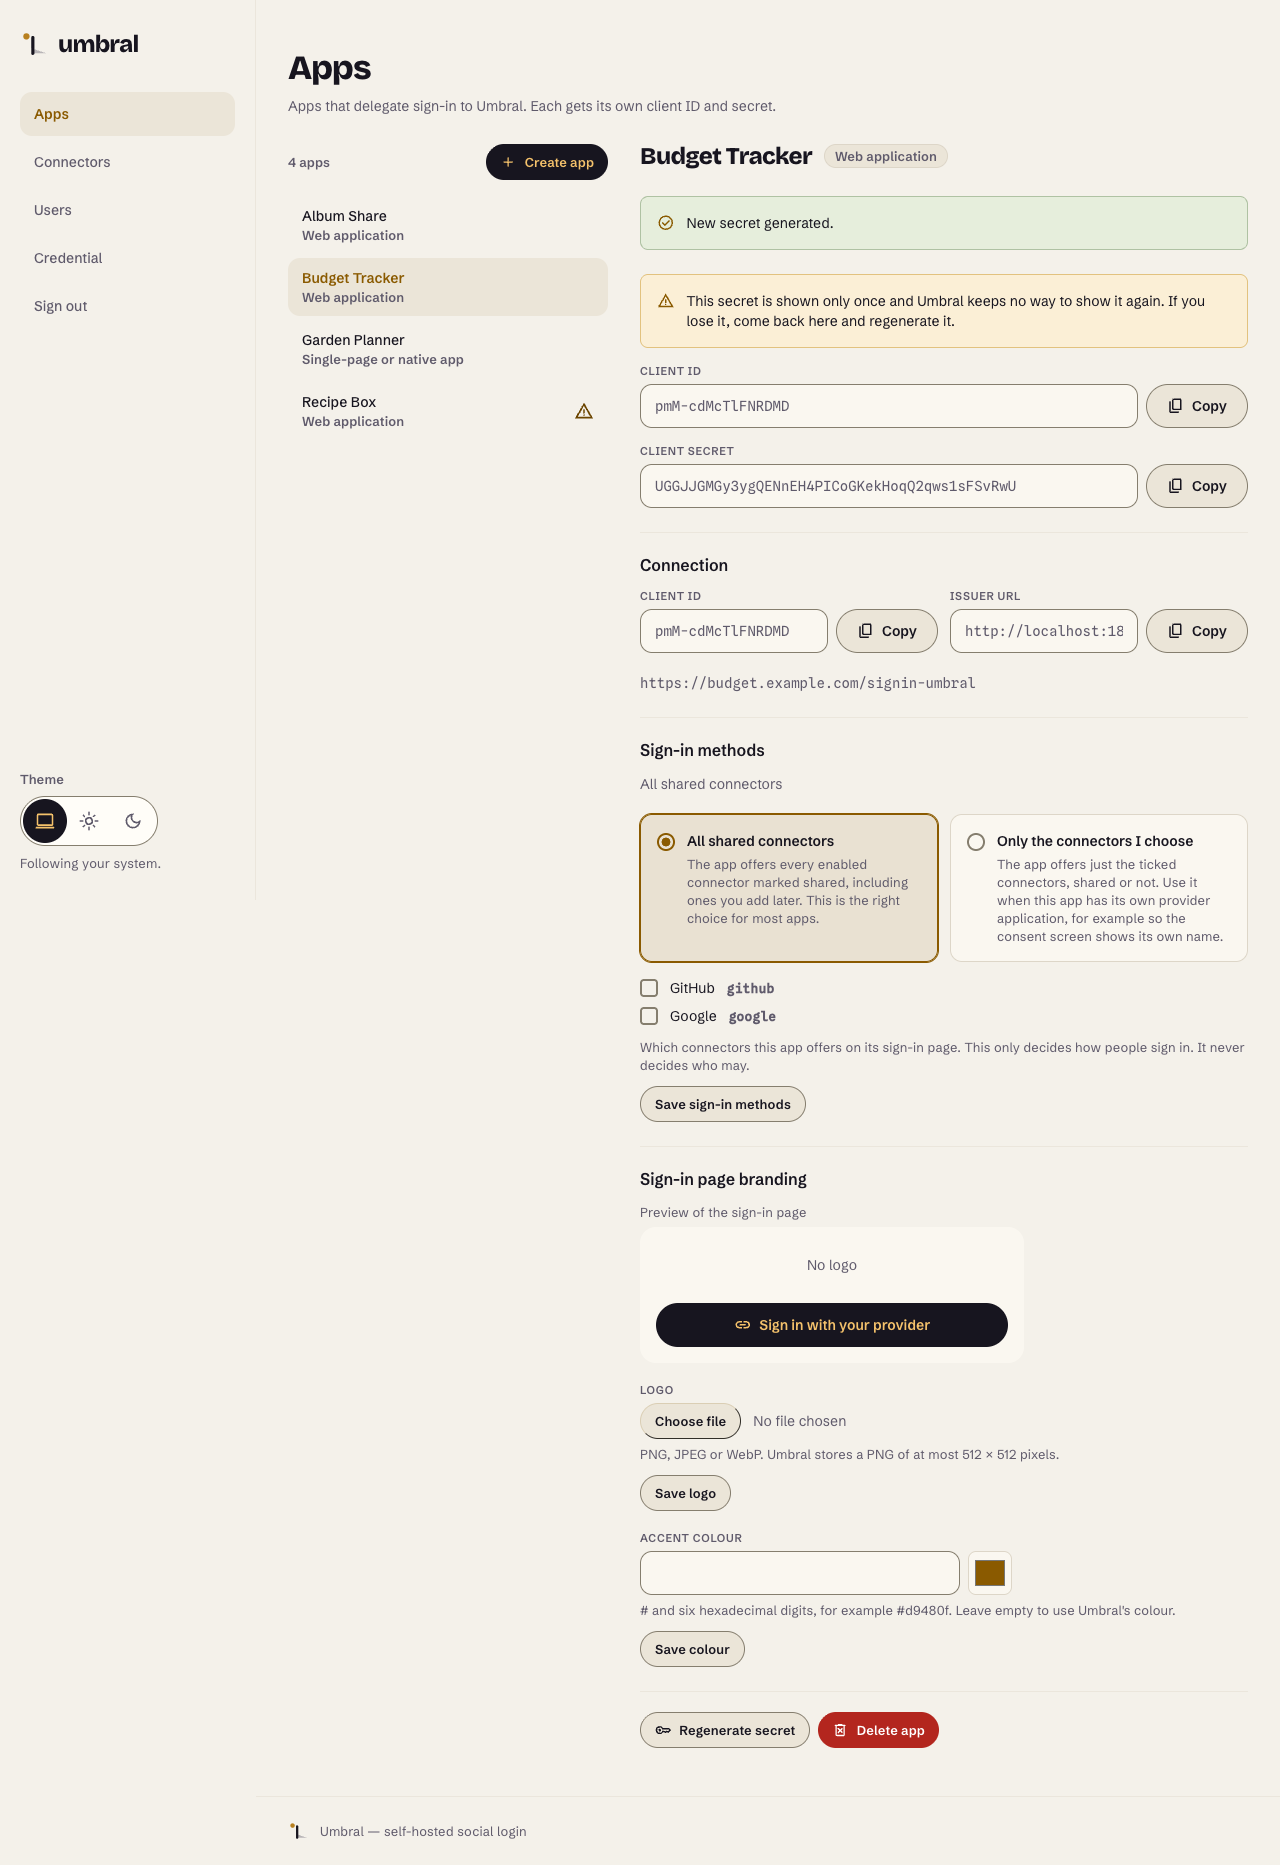
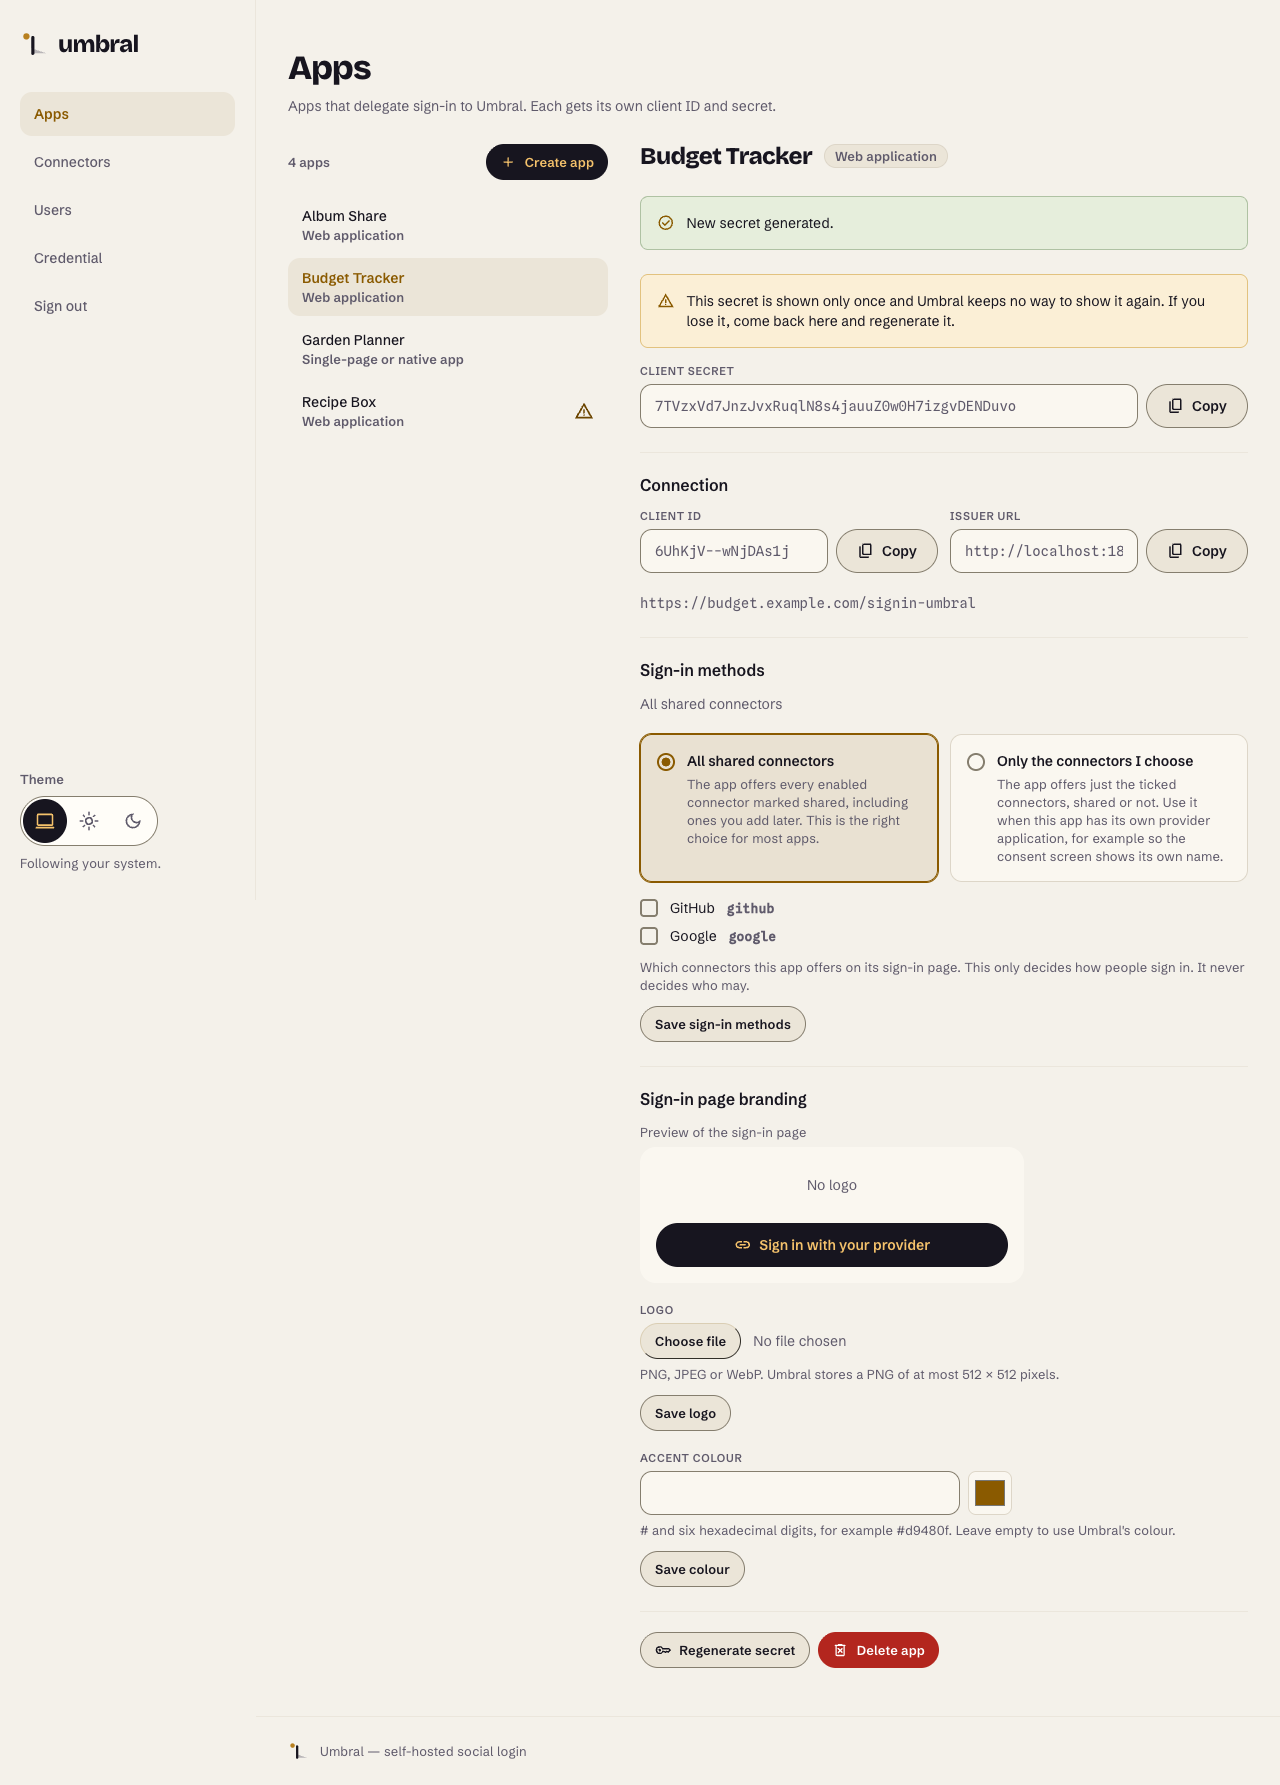
fix(apps): an app's page is titled after it; review fixes
From the design review (.alta/reviews/2026-10-23-apps-master-detail/review.md):
- the title names what the URL shows: "<app> · Apps" on an app's URL, "Create
  app" on /admin/apps/new, "Apps" on the list; htmx takes it from the swapped
  page, so the tab follows the selection
- the secret reveal in the pane drops its Client ID, which the Connection
  section shows right under it; test helpers read the client id there
- a refused create or change is drawn as a warning, not as a success
- DESIGN.md no longer describes the retired dialog

Full suite: 1404 passed, 0 failed; build-css.sh --check clean.

diff --git a/.alta/reviews/2026-10-23-apps-master-detail/review.md b/.alta/reviews/2026-10-23-apps-master-detail/review.md
@@ -1,0 +1,109 @@
+# Review: the Apps screen as a list and a detail pane
+
+Task: `.alta/tasks/2026-10-23-apps-screen-as-a-list-and-a-detail-pane-m4st.md`
+Contract: `design/contracts/apps-connectors-master-detail.md`, sections 1 and 2.
+Branch: `alta/savvy-severn-f6f6`, commits `351d134` (merge of main 0.4.0 and h3cd), `484dfa3`
+(the work), `66dc102` (this folder). Reviewed 2026-10-23 by the design reviewer from the diff,
+the detector, a test run, and the 34 captures.
+
+## Verdict
+
+**Not yet clear: one blocking item, three nits.** The frame is right, and the eight decisions in
+`notes.md` all stand (two of them correct the contract, see the end). Fix item 1, apply the nits
+you agree with, replace the captures that change (`detail-secret`, `create` after a failed
+create if you take nit 3), and I re-check once.
+
+## What was checked
+
+- Diff against the contract: the frame grid at `lg` with a 320px list and 32px gap; entries
+  drawn like the rail's with two lines and one marker; the selected entry `aria-current="page"`
+  on the high step with its title in gold at 600; the pane a `section` labelled by its `h2`
+  with `tabindex="-1"`; sections on the 40% hairline with 24px above and 20px below; the
+  closing row the same; the pressed Create button; the back link as a small ghost, `lg:hidden`,
+  first in the pane. Pane order: heading, item notices, Connection, Sign-in methods, Sign-in
+  page branding (whole, as merged), the closing row.
+- URLs and redirects: `/admin/apps`, `/admin/apps/new`, `/admin/apps/{id}`; every app POST
+  lands on the detail URL, delete on the list, a failed create on the create URL; unknown id is
+  404 with the list and no selection; the `#app-` anchor scheme is gone.
+- htmx: `frameNav` sets `hx-get`, `hx-target` and `hx-select` to `[data-frame]`, `outerHTML`,
+  `hx-push-url`; the full page is returned. `umbral.js` listens for `htmx:after:swap`, which is
+  the htmx 4 name (checked in the bundled file), moves focus to the pane heading or the first
+  entry, and restarts the accent forms. The dialog code and styles are gone with nothing left
+  pointing at them.
+- Accessibility: the list is a `nav` with its label; the marker is `role="img"` with a name;
+  focus ring on an entry visible in `focus-entry`; one `aria-current` on a detail URL.
+- Captures: at 1280 the two columns read as one navigation with the rail; at 360 the list
+  alone, then the pane with the back link; the long redirect URI wraps inside the pane; the
+  empty list shows the create form in the pane; no enabled connector and no apps replaces the
+  frame; one red fill per pane; the item notice sits under the heading in the pane, not at the
+  page top.
+- DESIGN.md: the Dialog component section is gone and a "List and detail" section added that
+  matches the shipped code. See nit 2 for what was left behind.
+- Tests, stylesheet, detector: see the last section.
+
+## Blocking
+
+1. **An app's own URL has the screen's title, not the app's.** `Apps.fs` line 993 passes
+   `t.AppsTitle` for every URL, so `/admin/apps/{id}` is titled "Apps | Umbral" in the tab,
+   history, bookmarks and the screen reader's page announcement, and after an htmx swap the
+   document title cannot change because the response's title is the same. The contract's
+   premise is that the item's URL is its address; an address needs its name. Fix: the title is
+   the app's display name on a detail URL ("Album Share | Umbral", or "Album Share · Apps |
+   Umbral" if you prefer the screen in it), "Create app | Umbral" on the create URL, and
+   "Apps | Umbral" on the list. htmx 4 takes the `<title>` from the swapped response by
+   default, so the tab follows the selection with no extra script; check that it does. Add an
+   assertion to "an app's own URL is a page with that app's pane".
+
+## Nits
+
+2. **The secret reveal repeats the Client ID four lines above Connection.** In `detail-secret`
+   the reveal block shows Client ID and Client secret, and the Connection section right under
+   it shows the Client ID again. That was fine when the reveal was a card above the list and the
+   app's card was elsewhere; in the pane it is the same field twice on one screen. Keep the
+   success alert, the once-only warning and the **Client secret** field in the reveal; drop its
+   Client ID. The test "the secret is shown once on the new app's page" should still hold.
+3. **DESIGN.md still carries the dialog it says is gone.** The frontmatter has a `dialog`
+   component (line 133), and the prose mentions the dialog at lines 217, 343 and 359. Remove the
+   token and reword those three sentences; the sidecar has no dialog component, so it is already
+   right.
+4. **A failed create is drawn as a success alert.** `/admin/apps/new?msg=app-name-required`
+   (and the other refusals that `fail` sends) render through `Components.alert Components.Success`
+   (lines 704, 959, 983). You noted this is pre-existing, which it is, and the contract said
+   not to change what forms do, which this does not: it is the alert's kind. Now that the form
+   and its refusal sit together in the pane, a green tick above "Name is required" is wrong.
+   Suggest a small `noticeKind code` in `Apps.fs` that returns Warning for the refusal codes
+   (`app-name-required`, `app-type-invalid`, the redirect URI refusals) and Success otherwise,
+   like `brandingAlertKind` already does for the branding notices. If you would rather keep this
+   out of the task, say so and I will queue it separately; it does not block.
+
+## Decisions in notes.md
+
+All eight stand. Two of them show the contract was wrong or ambiguous, and I will amend it,
+not the code:
+
+- Decision 1 (no enabled connector but apps exist: keep the frame without Create, empty state
+  above): right. Hiding existing apps' Delete and Regenerate was never intended. Contract §2
+  will say so.
+- Decision 3 (entry title in bone at rest, second line muted): right, and the captures prove
+  it: the list scans better than muted-everything would, and it is what §1's entry definition
+  said before its "Rest: text muted" line contradicted it. Contract §1 will say "rest: title in
+  bone, second line muted; hover adds the container step".
+- Decisions 2 (accent sheet inside the pane), 4 (pressed Create drawn as selected), 5 (sr-only
+  legend in the pane), 7 (first app `aria-current` on the list URL even where the pane is
+  hidden), 8 (`data-screen="app-new"` kept): accepted as written.
+
+## For the Connectors task
+
+Reuse `Components.frame`, `frameList`, `frameEntries`, `frameEntry`, `framePane`,
+`paneHeading`, `paneSection`, `paneActions`, `markerIcon`, the `.um-entry` and `.um-pane-*`
+classes and the focus and accent hooks in `umbral.js` as they are. Nothing in this review asks
+for a change to them.
+
+## Tests, stylesheet, detector
+
+Run by the reviewer on the branch's worktree at `66dc102`, 2026-10-23:
+`dotnet test` with the Apps, AppBranding, AppSecret, AppDelete and Csrf filters: 76 passed,
+0 failed (the implementer reports the full suite at 1404 passing).
+`build-css.sh --check`: clean, `umbral.css` is current.
+Impeccable detector on `umbral.input.css`: one advisory, the pre-existing crop-shade colour;
+nothing from this change.

diff --git a/DESIGN.md b/DESIGN.md
@@ -130,11 +130,6 @@ components:
     backgroundColor: "{colors.ink-low}"
     rounded: "{rounded.lg}"
     padding: "24px"
-  dialog:
-    backgroundColor: "{colors.ink-low}"
-    textColor: "{colors.bone}"
-    rounded: "{rounded.md}"
-    padding: "24px"
   pill:
     typography: "{typography.label-md}"
     rounded: "{rounded.full}"
@@ -214,10 +209,10 @@ Ink and bone with a corona of gold; by day, paper and ink with a darker gold.
 - **Ink** (#0b0b14) / **Paper** (#f4f1ea): the page (`surface`).
 - **Five tonal steps** (`surface-container-lowest` to `-highest`): dark
   #07070e, #14141f, #181826, #1d1d2b, #26263a; light #ebe5d8, #fffdf8,
-  #faf7f0, #ebe5d8, #e3ddd0. Cards sit on `-low`, inputs and the dialog on
-  `-container` and `-low`, hovered and current things on `-high` and
-  `-highest`. In the light theme the lowest step is darker than the page, the
-  low step lighter, so a card on paper is a sheet of brighter paper.
+  #faf7f0, #ebe5d8, #e3ddd0. Cards sit on `-low`, inputs on `-container`,
+  hovered and current things on `-high` and `-highest`. In the light theme the
+  lowest step is darker than the page, the low step lighter, so a card on
+  paper is a sheet of brighter paper.
 - **Bone** (#ece8df dark, #17151f light): text (`on-surface`).
 - **Bone, muted** (#a7a2b6 dark, #5f5a6b light): secondary text, labels,
   hints, ghost buttons (`on-surface-variant`; also `secondary`).
@@ -339,8 +334,7 @@ shadow at rest: the card is the low step with a hairline, the input the
 container step with a full outline, a hovered rail entry or secondary button
 one step higher. Two shadow tokens exist (`--shadow-level-1`, `0 1px 2px 0
 rgb(0 0 0 / 0.4)`; `--shadow-level-2`, `0 10px 28px -8px rgb(0 0 0 / 0.55)`)
-and are reserved for things that float; today nothing uses them, and the modal
-dialog floats on a near-opaque backdrop (`rgb(5 5 10 / 0.74)`) instead. The
+and are reserved for things that float; today nothing uses them. The
 name bar on a rail-less page is the one translucent surface
 (`bg-surface/90` with `backdrop-blur-md`).
 
@@ -356,7 +350,7 @@ footer. Thicker lines appear only as the 2px focus ring and the 2px crop box.
 
 Softly rounded, with the pill as the signature. Buttons, pills, the theme
 control's track and its options, the radio and the crop handles are fully
-round (9999px). Inputs, choice cards, the rail's entries and the dialog are
+round (9999px). Inputs, choice cards, the rail's entries and the list's entries are
 12px (`rounded-md`, or Tailwind's default `rounded-xl`, the same value); cards
 are 16px (`rounded-lg`). Alerts are 8px, the focus ring and the check box 4px.
 Nothing is square. Borders are

diff --git a/.alta/reviews/2026-10-23-apps-master-detail/notes.md b/.alta/reviews/2026-10-23-apps-master-detail/notes.md
@@ -141,3 +141,28 @@ app) in each app pane. At 360 and 768 the list hides on detail URLs and the pane
 After a click on an entry with htmx, the URL is pushed and the page has one `[data-frame]`. Focus lands on the
 pane's `h2`, and the accent sheet and the sample's colour follow the selected app (`rgb(255, 111, 97)` for Album
 Share). The accent picker is shown again after the swap.
+
+## Re-check: fixes for review.md
+
+All four items are fixed in the commit after `66dc102`, on the same branch.
+
+1. **Blocking, the title.** The page title is "<app name> · Apps | Umbral" on an app's URL, "Create app | Umbral" on
+   `/admin/apps/new`, and "Apps | Umbral" on the list URL and for an unknown app (`pageTitle` in `Apps.fs` `view`).
+   In Chrome, after an htmx click on an entry, `document.title` became "Recipe Box · Apps | Umbral", then "Album
+   Share · Apps | Umbral", with no extra script. "an app's own URL is a page with that app's pane" now asserts all
+   three titles.
+2. **Nit, the reveal.** It keeps the success notice, the once-only warning and the Client secret field, and drops its
+   Client ID (`revealed-client-id` is gone). The three test helpers that registered an app (`Flows.registerApp`,
+   `Journeys.createClientApp`, `OidcProtocolTests`) now read the client id from the pane's Connection field
+   `client-id-<id>`, as an operator would.
+3. **Nit, DESIGN.md.** The `dialog` token is gone from the frontmatter, and the three sentences no longer mention the
+   dialog: the tonal steps, the shadow paragraph, and the 12px radius list, which now names the list's entries
+   instead.
+4. **Nit, the refusal colour.** `noticeKind` in `Apps.fs` draws `app-name-required`, `app-redirect-uri-invalid`,
+   `app-type-invalid`, `app-connector-unknown`, `app-not-found` and `app-no-secret` as Warning, and the rest as
+   Success. It applies at all three places a non-branding notice is drawn. The test "creating an app lands on its
+   page…" asserts the warning. This also closes follow-up task `…-4853`.
+
+New and replaced captures: `detail-secret-*` (replaced) and `create-refused-*` (new: the create pane after posting
+with no name), at 1280 and 360 in dark and light, so the folder now has 38 PNGs. There is no overflow, and the create
+pane has no red fill. Tests: see the commit message for the full-suite result.
